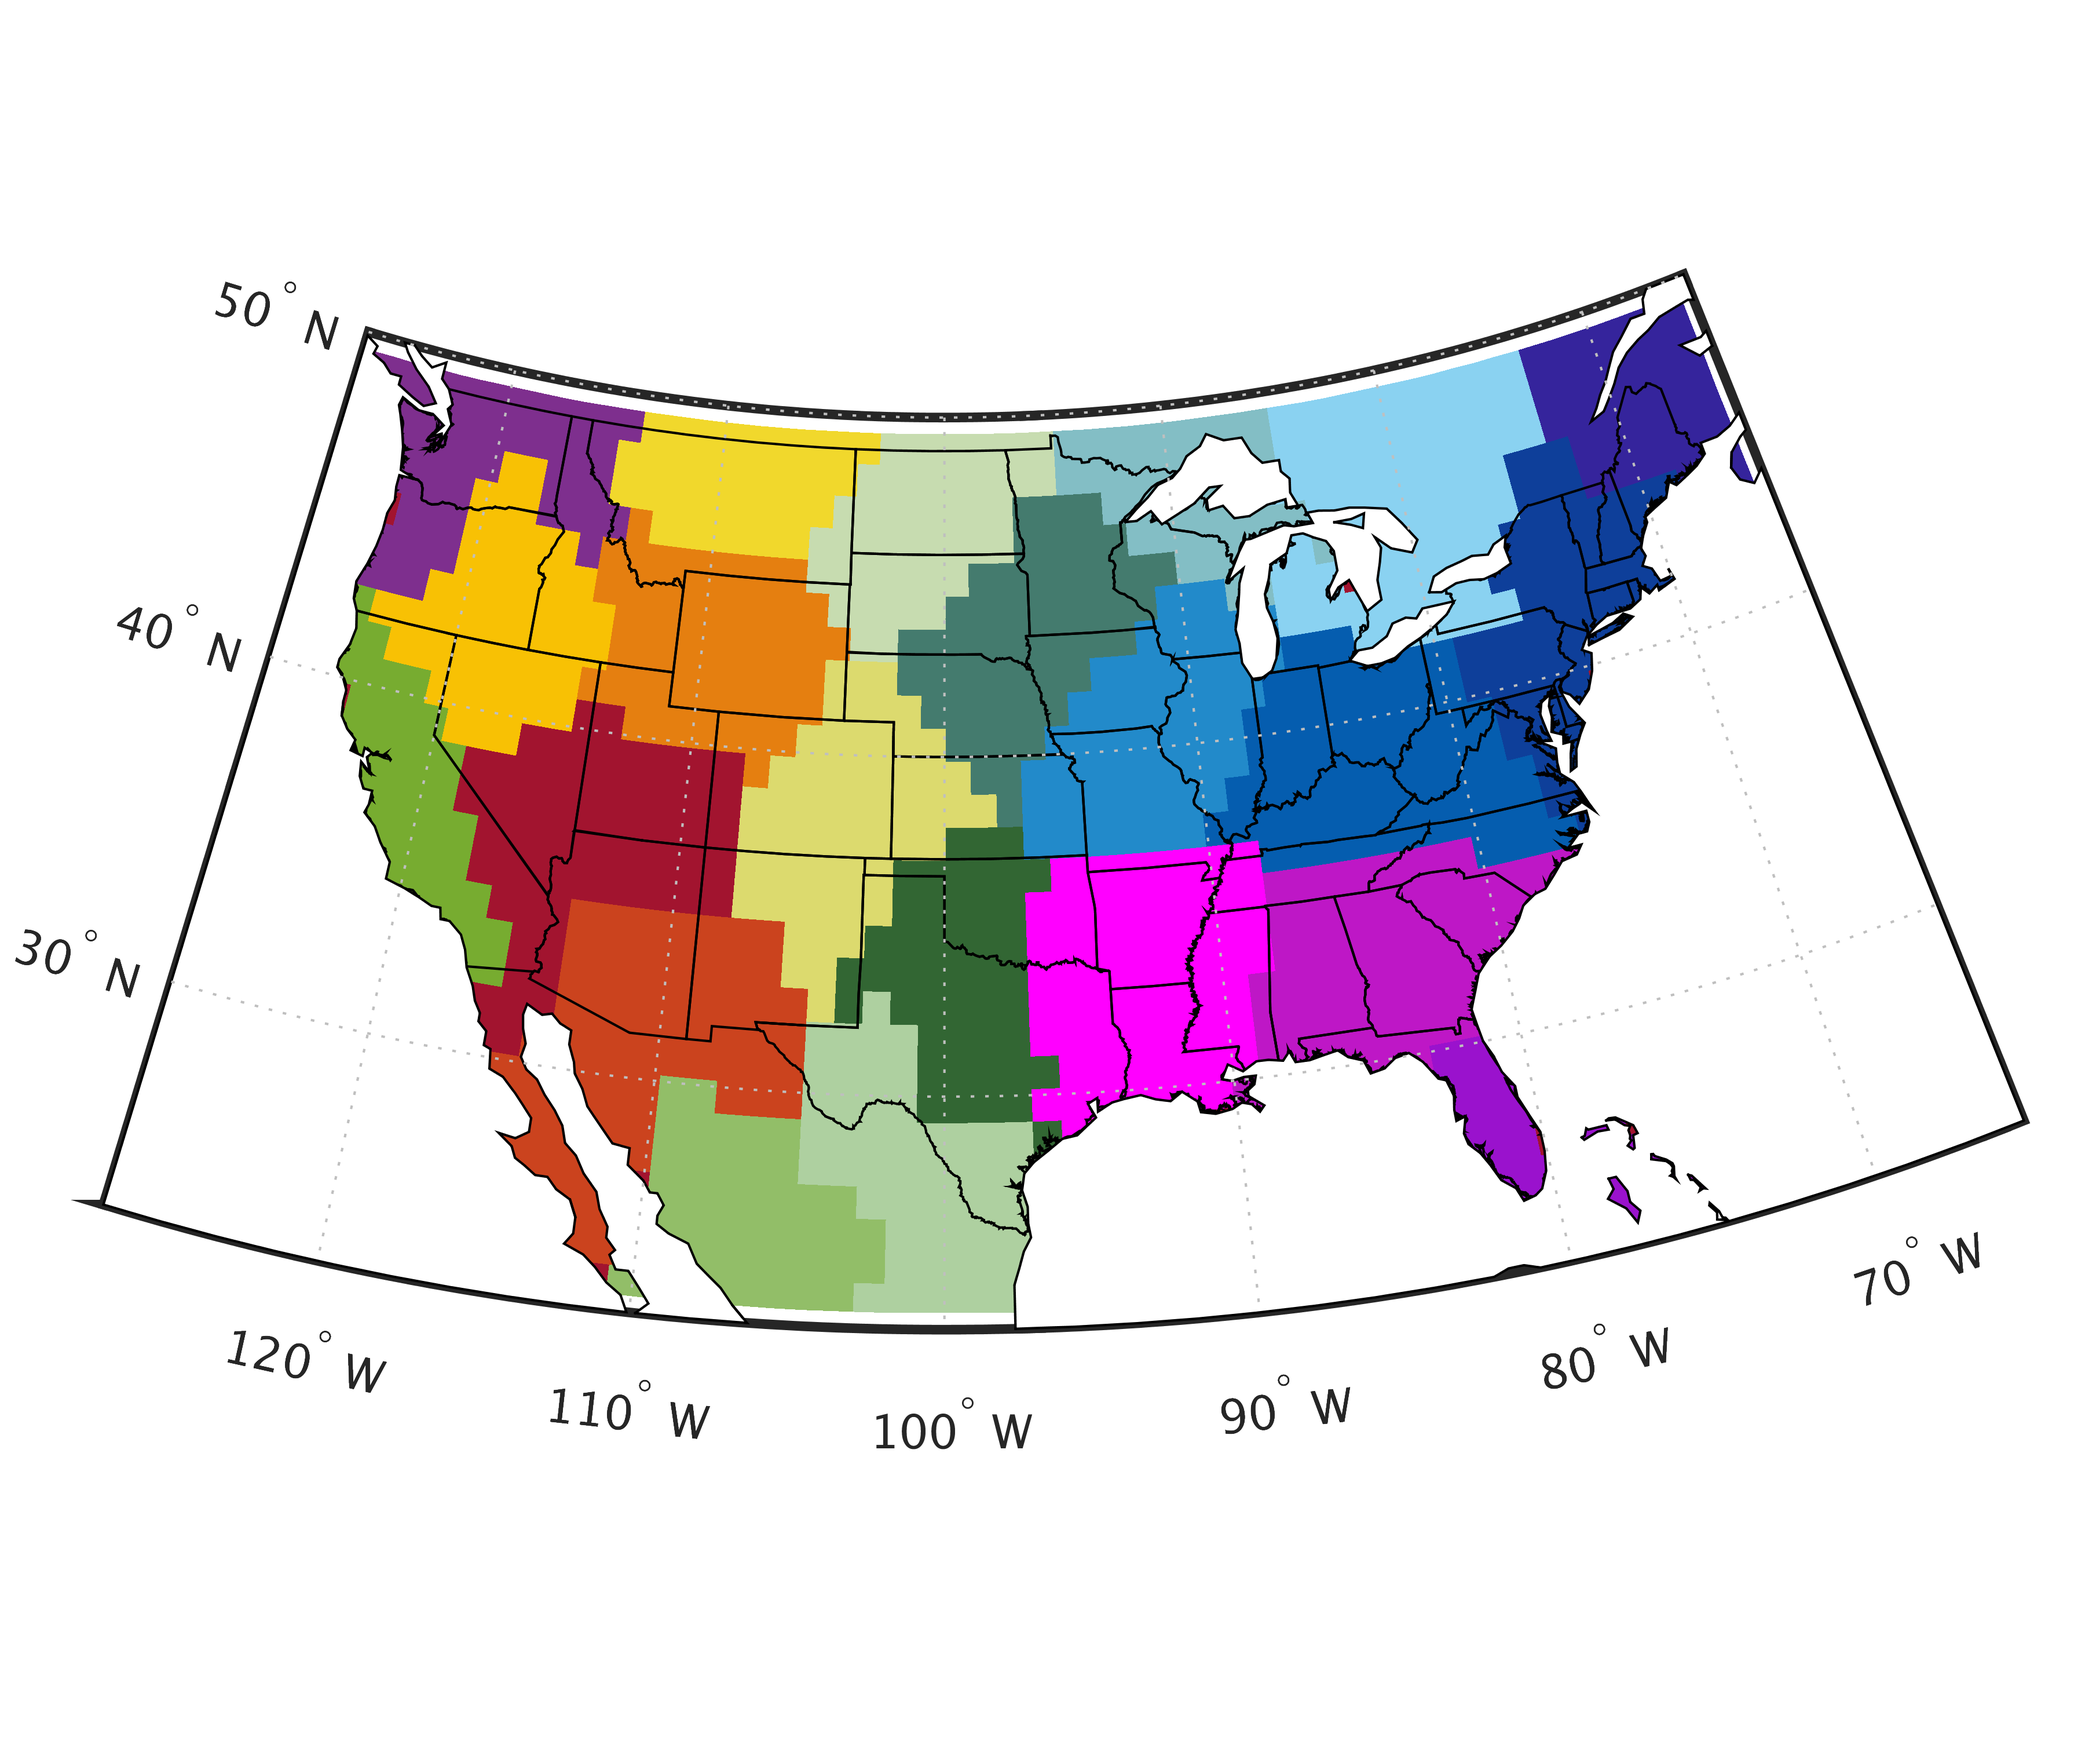
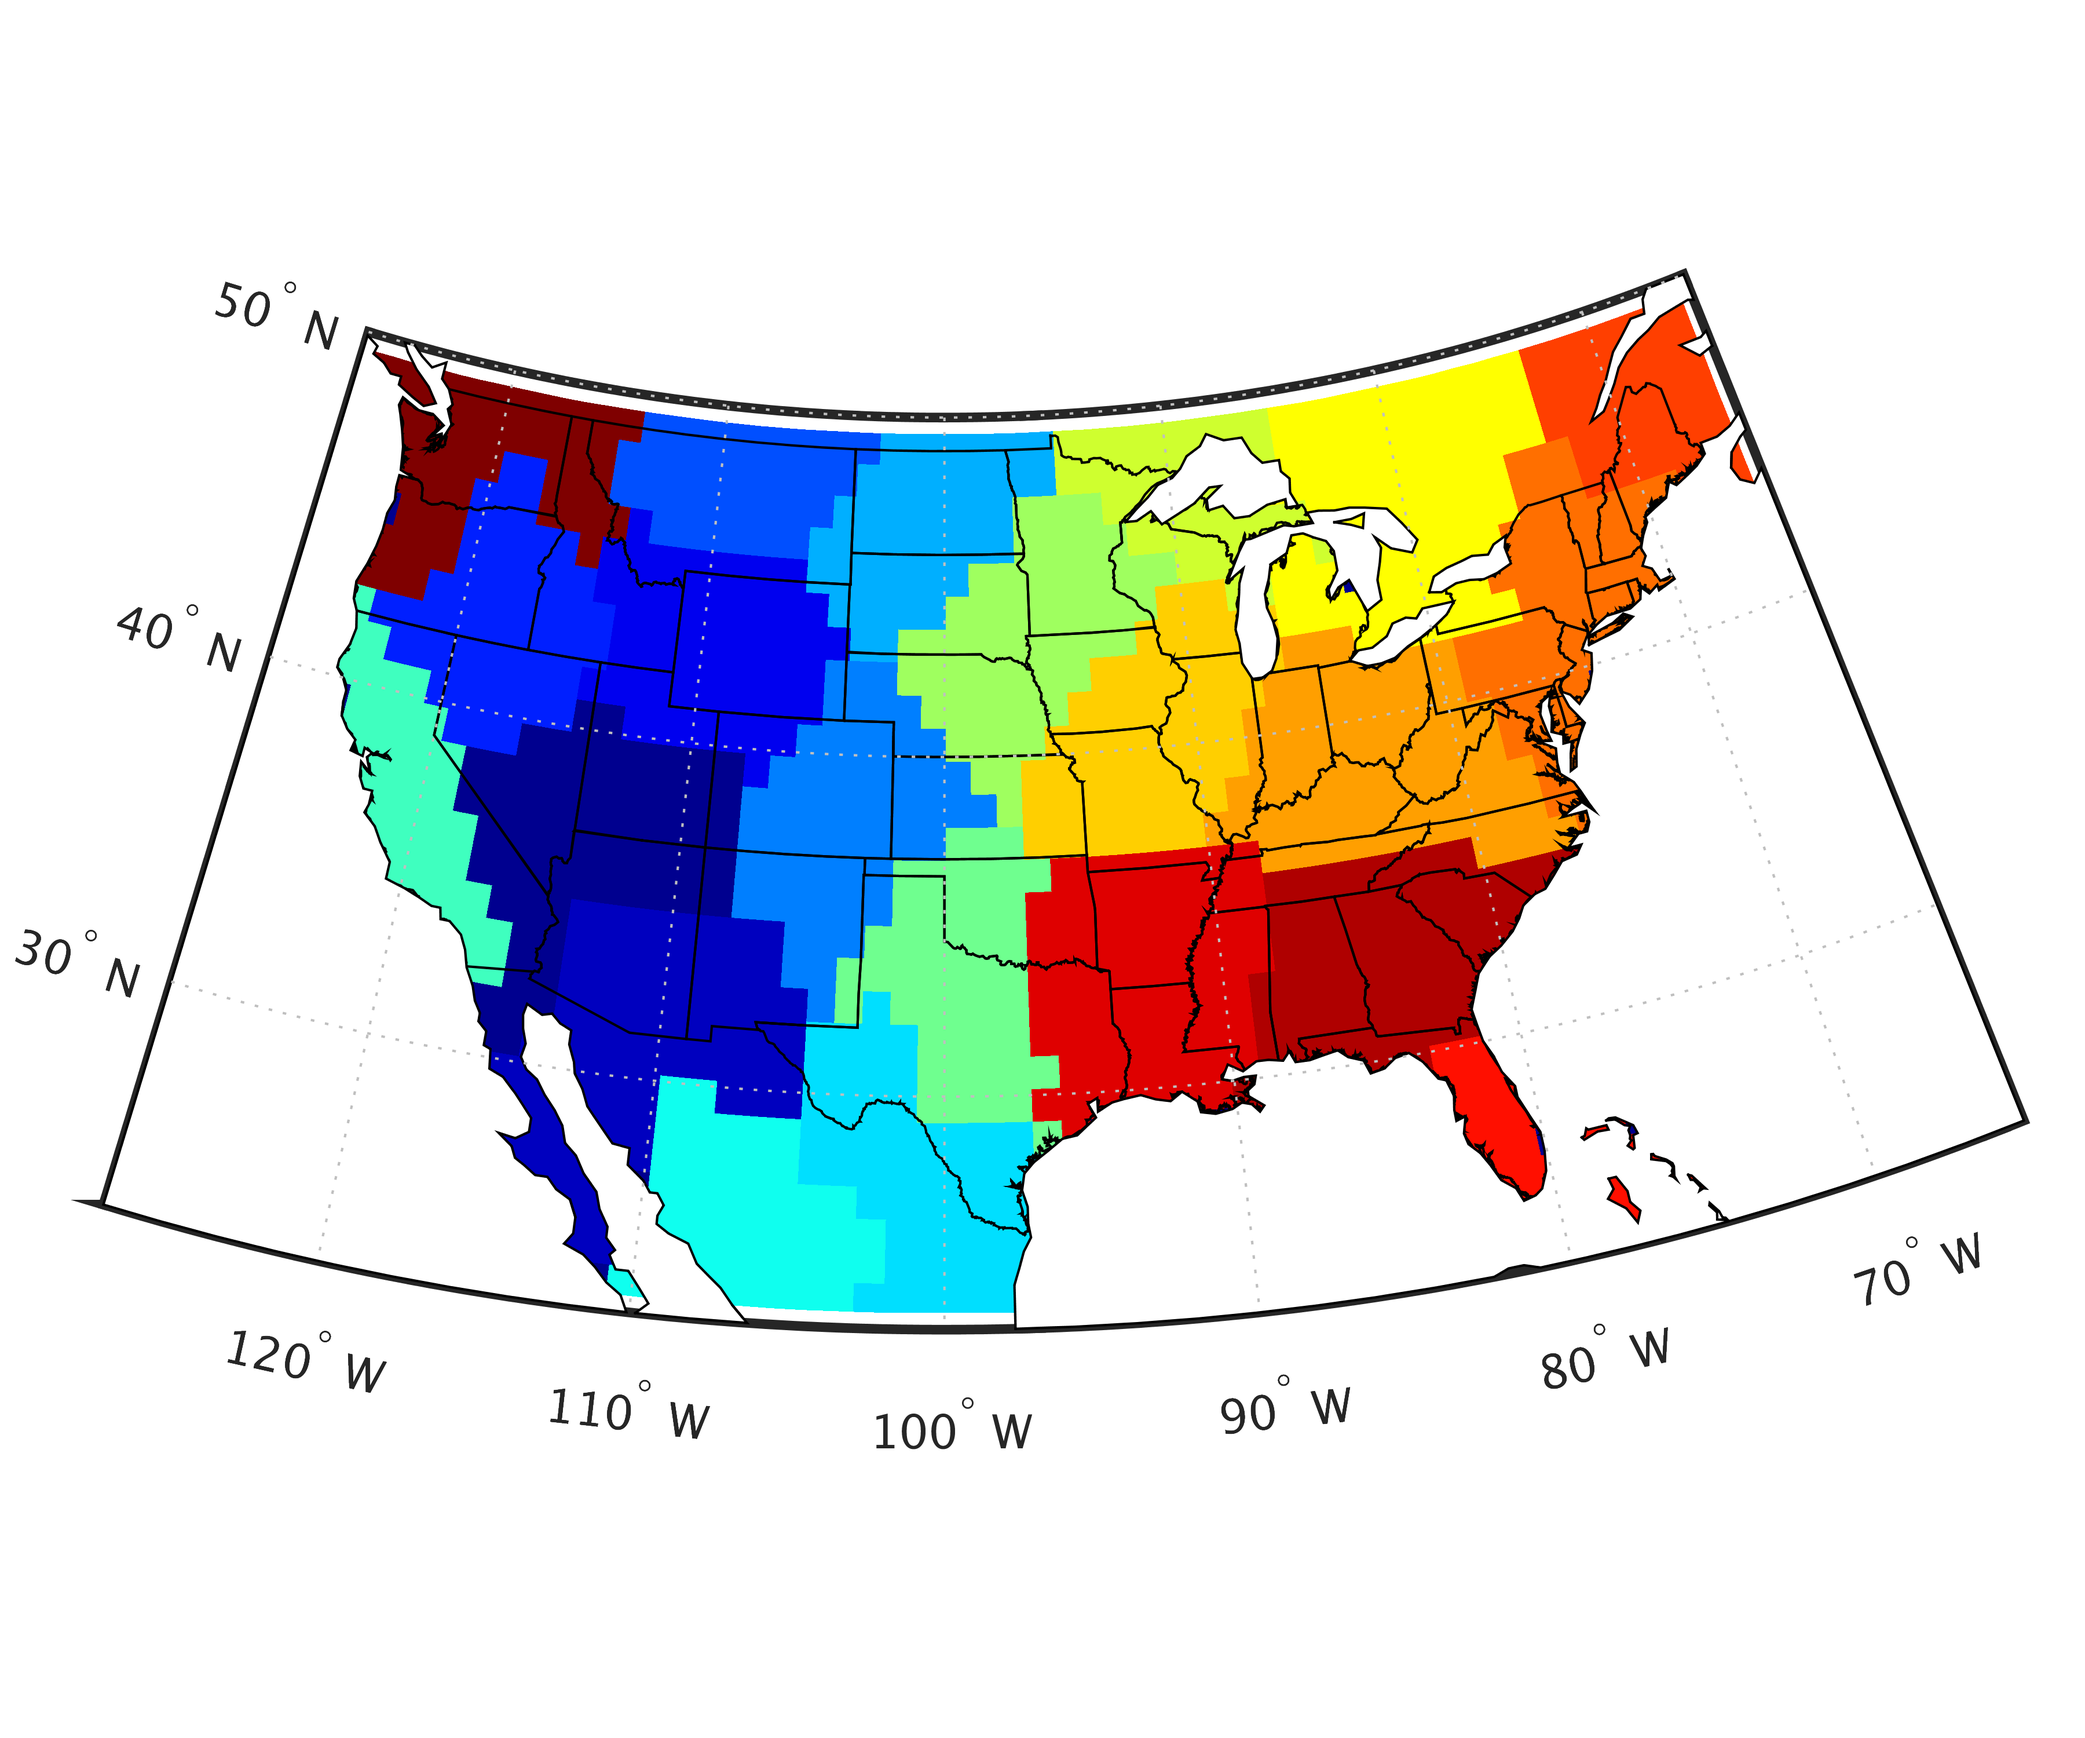
added commments

Changed region(s): [[0.1556, 0.155, 0.84, 0.775]]

diff --git a/do_clust.m b/do_clust.m
@@ -1,6 +1,12 @@
 %datadir='/glade/p/rda/data/ds728.3/p1d/netcdf'
+%load GPCC data https://rda.ucar.edu/datasets/ds497.0/
 datadir='/glade/p/rda/data/ds497.0/full_data_daily_v1'
 
+%switch - fit distribution or just use percentiles (default)
+fitdist=0;
+
+
+%read daily data
 fils=dir([datadir '/*.nc']);
 pmat=[];
 tmat=[];
@@ -14,23 +20,29 @@ end
 pmat=cat(3,pmat,tmp);
 tmat=cat(1,tmat,ttmp);
 end
+
+%%pmat (mm)  360 (lon)        180 (lat)       9497 (days)
 year=cumsum([0;diff(tmat)<0]);
 
+%%create date vector in datenum format (begins 1988)
 date0=datenum([1988+year,ones(size(year)),ones(size(year))])+tmat;
 %date0=datenum([1988,1,1])+tmat;
+
+%full matlab datew vector
 datevv=datevec(date0);
 
-
-%mm3day=movsum(pmat,3,3);
-
-tmp=cumsum(pmat,3);
-
-mm3day=cat(3,tmp(:,:,4:end)-tmp(:,:,1:end-3),NaN([size(tmp,1),size(tmp,2),3]));
+%create 3 day rain accumulation matrix
+p3daysum=cumsum(pmat,3);
+mm3day=cat(3,p3daysum(:,:,4:end)-p3daysum(:,:,1:end-3),NaN([size(p3daysum,1),size(p3daysum,2),3]));
 
 
-
+%list of years
 fyears=unique(datevv(:,1));
-maxmat=NaN(size(tmp,1),size(tmp,2),1,12);
+
+
+
+%%%Create matrix of monthly maximum and mean values, by year, for extreme value analysis
+maxmat=NaN(size(p3daysum,1),size(p3daysum,2),1,12);
 for i=1:numel(fyears)
 for m=1:12
 usedates=find(and(datevv(:,1)==fyears(i),datevv(:,2)==m));
@@ -46,35 +58,56 @@ end
 
 for i=1:size(pmat,1)
 i/size(maxmat,1)
+%loop over longitude
 for j=1:size(pmat,2)
+    %loop over latitude
 if ~isnan(mean(pmat(i,j,:),3));
 for m=1:12
+    %find dates in month m
 usedates=find(datevv(:,2)==m);
+%find all days when it rained more than 0.1mm
 rainydays=usedates(find(squeeze(pmat(i,j,usedates))>0.1));
+%determined rainy day frction
 pfrac=numel(rainydays)/numel(pmat(i,j,usedates));
+%form distribution from rainy days
 raindist=squeeze(pmat(i,j,rainydays));
+%%(for fitdist) define 2 parameter exponential function
+
 pdf_expmixture = @(x,p,mu1,mu2) ...
                          p*exppdf(x,mu1) + (1-p)*exppdf(x,mu2);
+
+
+%guess for mixing ratio of 2 exponential distributions
 pStart = .5;
+%define the two exponential parameters as 45th and 85th percentile
 muStart = quantile(raindist,[.45 .85]);
+
 if isnan(mean(muStart))
+    %default to very low values for case when it never rained in the whole dataset (Sahara, some months)
 muStart = [0.05,0.1];
 end
-muBnd = quantile(raindist,[.6 .99]);
 
-start=[pStart muStart ];
+%%for fitdist options - make the first parameter less then 60th percentile, 2nd parameter >60th percentile
+muBnd = quantile(raindist,[.6 .99]);
+%lower and upper parameter bounds
 lb = [0 0 muBnd(1)];
 ub = [1 muBnd(1) muBnd(2)];
-if 0
+%starting vector (mixing ratio, parameter first guesses
+start=[pStart muStart ];
+if fitdist
+    %fitdist option, just cluster based on mixed exponential parameter values (SLOW!!!)
 paramEsts = mle(raindist, 'pdf',pdf_expmixture, 'start',start, ...
                           'lower',lb, 'upper',ub);
 else
+    %with no fitdist option, just cluster based on percentile values
 paramEsts=start;
 end
 
+%full parameter matrix  - 4 for each gridcell - rain fraction, mixing fraction (always 0.5 if fitdist=0), exponential parameters x2
 prmmat(i,j,m,:)=[pfrac,paramEsts];
 end
 else
+    %if the original p data is NaN (ocean, probably), make this Nan too
 prmmat(i,j,m,:)=NaN(1,4);
 end
 end
@@ -82,196 +115,178 @@ end
 
 
 
-
+%%make 360x180 lat/lon vectors
 latarr=repmat(lats',numel(lon),1);
 lonarr=repmat(lon,1,numel(lats));
 
-D1=.025;
+%% Now define inter-point distances
+%first - phyiscal distance
 distfun=@(x1,x2) distance(latarr(x1(1),x1(2)),lonarr(x1(1),x1(2)),latarr(x2(1),x2(2)),lonarr(x2(1),x2(2)));
-
+%now - distance in parameter 1 (rain fraction)
 p2fun=@(x1,x2) sum((prmmat(x1(1),x1(2),:,1)-prmmat(x2(1),x2(2),:,1)).^2,3);
 
+%to calibrate parameter normalization - find distance between each point and its neighbour
 for i=1:size(prmmat,1)-1
 for j=1:size(prmmat,2)
 tmp2(i,j)=p2fun([i,j],[i+1,j]);
 end
 end
+%normalization factor - 5th percentile of this distribution 
 D2=prctile(tmp2(:),5);
 
+%now - distance in parameter 3 (percentile value or exp parameter 1)
 p3fun=@(x1,x2) sum((prmmat(x1(1),x1(2),:,3)-prmmat(x2(1),x2(2),:,3)).^2,3);
-
+%to calibrate parameter normalization - find distance between each point and its neighbour
 for i=1:size(prmmat,1)-1
 for j=1:size(prmmat,2)
 tmp3(i,j)=p3fun([i,j],[i+1,j]);
 end
 end
+%normalization factor - 20th percentile of this distribution 
 D3=prctile(tmp3(:),20);
 
+%now - distance in parameter 4(percentile value or exp parameter 2)
 p4fun=@(x1,x2) sum((prmmat(x1(1),x1(2),:,4)-prmmat(x2(1),x2(2),:,4)).^2,3);
-
+%to calibrate parameter normalization - find distance between each point and its neighbour
 for i=1:size(prmmat,1)-1
 for j=1:size(prmmat,2)
 tmp4(i,j)=p4fun([i,j],[i+1,j]);
 end
 end
+%normalization factor - 20th percentile of this distribution 
 D4=prctile(tmp4(:),20);
 
-%combidist=@(x1,x2) distfun(x1,x2)/D1+p2fun(x1,x2)/D2+p3fun(x1,x2)/D3+p4fun(x1,x2)/D4;
+%combine all parametric distances into single function
 combidist=@(x1,x2) p2fun(x1,x2)/D2+p3fun(x1,x2)/D3+p4fun(x1,x2)/D4;
 
-
+%define boundaries for US domain
 [minlon,minlat]=findcoords(20.1,-132.1,latarr,lonarr);
 [maxlon,maxlat]=findcoords(50.1,-60.1,latarr,lonarr);
 
 uselats=[minlat:maxlat];
 uselons=[minlon:maxlon];
-
+%aa and bb are the indices of points in the US domain
 [aa bb]=ndgrid(uselons,uselats);
+%make vector (isgd) of all non-nan points in the US domain
  isgd=find(~isnan(pmat(uselons,uselats,1)));
 
-clear tmp
+clear tmp tmpd
 
+%define inter-point distances for all point pairs
 for ii=1:numel(isgd)
 ii./size(isgd,1)
 for jj=1:numel(isgd)
+    %parametric distance
 tmp(ii,jj)=combidist([aa(isgd(ii)),bb(isgd(ii))],[aa(isgd(jj)),bb(isgd(jj))]);
+%physical distance
 tmpd(ii,jj)=distfun([aa(isgd(ii)),bb(isgd(ii))],[aa(isgd(jj)),bb(isgd(jj))]);
 end
 end
 
+%define normalization parameter for physical distance - lower values mean clausters will be more spatially confined
 D1=0.0025;
+
+%produce a combined distance vector (both physical and parametric)
 tmpmap=NaN(size(aa(:),1),size(aa(:),1));
 for i=1:numel(isgd)
 tmpmap(isgd(i),isgd)=tmp(i,:)+tmpd(i,:)/D1;
 end
 
+
+
+%%CLUSTER ANALYSIS
+%initial number of clusters (nc - free parameter)
 nc=60;
 
+%compute linkage and initial clustering
 Z = linkage((tmp+tmpd/D1).^0.5,'complete');
 c = cluster(Z,'maxclust',nc);
 
 
 
-
+%define minimum number of gridcells in a cluster
 minsize=40;
+%duplicate cluster vector before loop
 c_org=c;
 
-
+%%Form coalesced clusters
+%initilize minimum cluster varaible
 minclust=0;
+
+%continue loop while there exists a cluster smaller than minsize
 while minclust<minsize
+    %create vector of unique clusters remaining
 cred=unique(c_org);
+
 clear inclust numelc
 for i=1:numel(cred)
+    %make list of cells in each cluster
 inclust{i}=(find(c_org==cred(i)));
+%count members in each cluster
 numelc(i)=numel(inclust{i});
 end
-numelc 
+
+%find smallest cluster - size is minclust, end if minclust>minsize
 [minclust ac]=min(numelc);
 
-
+%work with smallest cluster, at index ac
 elimc=ac;
+%list elements in that cluster
 cands=inclust{elimc};
+%total clusters vector
 alc=[1:numel(cred)];
 clear ctarg
 for j=1:numel(cands)
+    %loop through gridcells in the cluster
 clear ctmp
 for k=1:numel(cred)
+    %find the distance between the candidate gridcell and the mean position of each remaining cluster
 ctmp(k)=mean(mean(tmp(cands(j),inclust{k})+tmpd(cands(j),inclust{k})/D1,1),2);
 end
+%list the clsuters which are not the elimination cluster
 allbut=find(alc~=elimc);
+%find the cluster which is closest to the candidate point (outside of the original elimination cluster)
 [duf ttmp]=min(ctmp(alc(allbut)));
+%set the candidate's destination cluster
 ctarg(j)=allbut(ttmp);
 end
+%remap all the elements of the candidate cluster to their new destination
 c_org(cands)=cred(ctarg);
 end
 
 
-
+%list remaining clusters
 uni=unique(c_org);
 
+%find mean precipitation in each cluster
  us_mean=mean(mean(meanmat(uselons,uselats,:,:),3),4);
+ %map onto landmasked isgd vector
 us_mngd=us_mean(isgd);
+
 
 for i=1:numel(uni)
 cmean(i)=mean(us_mngd(find(c_org==uni(i))));
 end
 [duf drysort]=sort(cmean)
-
+%sort clusters from dryest to wettest region
 for i=1:numel(uni)
 c_new(find(c_org==uni(drysort(i))))=i;
 end
 
 
-
+%map onto lat/long grid for plotting
  cmap=NaN(size(pmat(uselons,uselats,1)));
 cmap(isgd)=c_new;
 
 
 
-figure(3)
-clf
-ax = usamap('conus');
-states = shaperead('usastatelo', 'UseGeoCoords', true,...
-  'Selector',...
-  {@(name) ~any(strcmp(name,{'Alaska','Hawaii'})), 'Name'});
-faceColors = makesymbolspec('Polygon',...
-    {'INDEX', [1 numel(states)], 'FaceColor','none'}); %NOTE - colors are random
- geoshow(lats(bb),lon(aa),cmap, 'DisplayType', 'texturemap')
+%plot clusters
+plotmap(lats,lon,aa,bb,cmap,'pmaps.png')
 
-hold on
-geoshow(ax, states, 'DisplayType', 'polygon', ...
-   'SymbolSpec', faceColors)
- load coast  
-geoshow(flipud(lat),flipud(long),'DisplayType','polygon','FaceColor','white')
-colormap('jet')
-
-
-
-set(gcf, 'PaperPosition', [0 0 6 5]);
-set(gcf, 'PaperSize', [6 5]);
-
-print(gcf,'-dpng','-r600','-painters',['pmaps.png'])
-
-
-
+%plot demonstration distance map
 [blon,blat]=findcoords(40.01,-105.3,lats(bb),lon(aa));
 gdmap=NaN(size(pmat(uselons,uselats,1)));
 gdmap(isgd)=1:numel(isgd);
 bgood=gdmap(blon,blat);
-
-
-figure(4)
-clf
-ax = usamap('conus');
-states = shaperead('usastatelo', 'UseGeoCoords', true,...
-  'Selector',...
-  {@(name) ~any(strcmp(name,{'Alaska','Hawaii'})), 'Name'});
-faceColors = makesymbolspec('Polygon',...
-    {'INDEX', [1 numel(states)], 'FaceColor','none'}); %NOTE - colors are random
- geoshow(lats(bb),lon(aa),reshape(log(1./tmpmap(isgd(bgood),:)),size(aa)), 'DisplayType', 'texturemap')
-
-hold on
-geoshow(ax, states, 'DisplayType', 'polygon', ...
-   'SymbolSpec', faceColors)
- load coast
-geoshow(flipud(lat),flipud(long),'DisplayType','polygon','FaceColor','white')
-colormap('jet')
-
-
-
-set(gcf, 'PaperPosition', [0 0 6 5]);
-set(gcf, 'PaperSize', [6 5]);
-
-print(gcf,'-dpng','-r600','-painters',['ptest.png'])
-
-
-
-figure(2)
-clf
-
-
-
-i=1
-imagesc(lon(uselons),lats(uselats),reshape(log(1./tmpmap(isgd(i),:)),size(aa))');hold on;plot(lon(aa(isgd(i))),lats(bb(isgd(i))),'ro','markersize',20);;
-
-set(gca,'ydir','normal');
+dmap=reshape(log(1./tmpmap(isgd(bgood),:)),size(aa));
+plotmap(lats,lon,aa,bb,dmap,'ptest.png')

diff --git a/plotmap.m b/plotmap.m
@@ -1,0 +1,26 @@
+function plotmap(lats,lon,aa,bb,cmap,filename)
+figure(3)
+clf
+ax = usamap('conus');
+states = shaperead('usastatelo', 'UseGeoCoords', true,...
+  'Selector',...
+  {@(name) ~any(strcmp(name,{'Alaska','Hawaii'})), 'Name'});
+faceColors = makesymbolspec('Polygon',...
+    {'INDEX', [1 numel(states)], 'FaceColor','none'}); %NOTE - colors are random
+ geoshow(lats(bb),lon(aa),cmap, 'DisplayType', 'texturemap')
+
+hold on
+geoshow(ax, states, 'DisplayType', 'polygon', ...
+   'SymbolSpec', faceColors)
+ load coast
+geoshow(flipud(lat),flipud(long),'DisplayType','polygon','FaceColor','white')
+colormap('jet')
+
+
+
+set(gcf, 'PaperPosition', [0 0 6 5]);
+set(gcf, 'PaperSize', [6 5]);
+
+print(gcf,'-dpng','-r600','-painters',filename)
+
+

diff --git a/README.md b/README.md
@@ -1,0 +1,1 @@
+# pcluster
